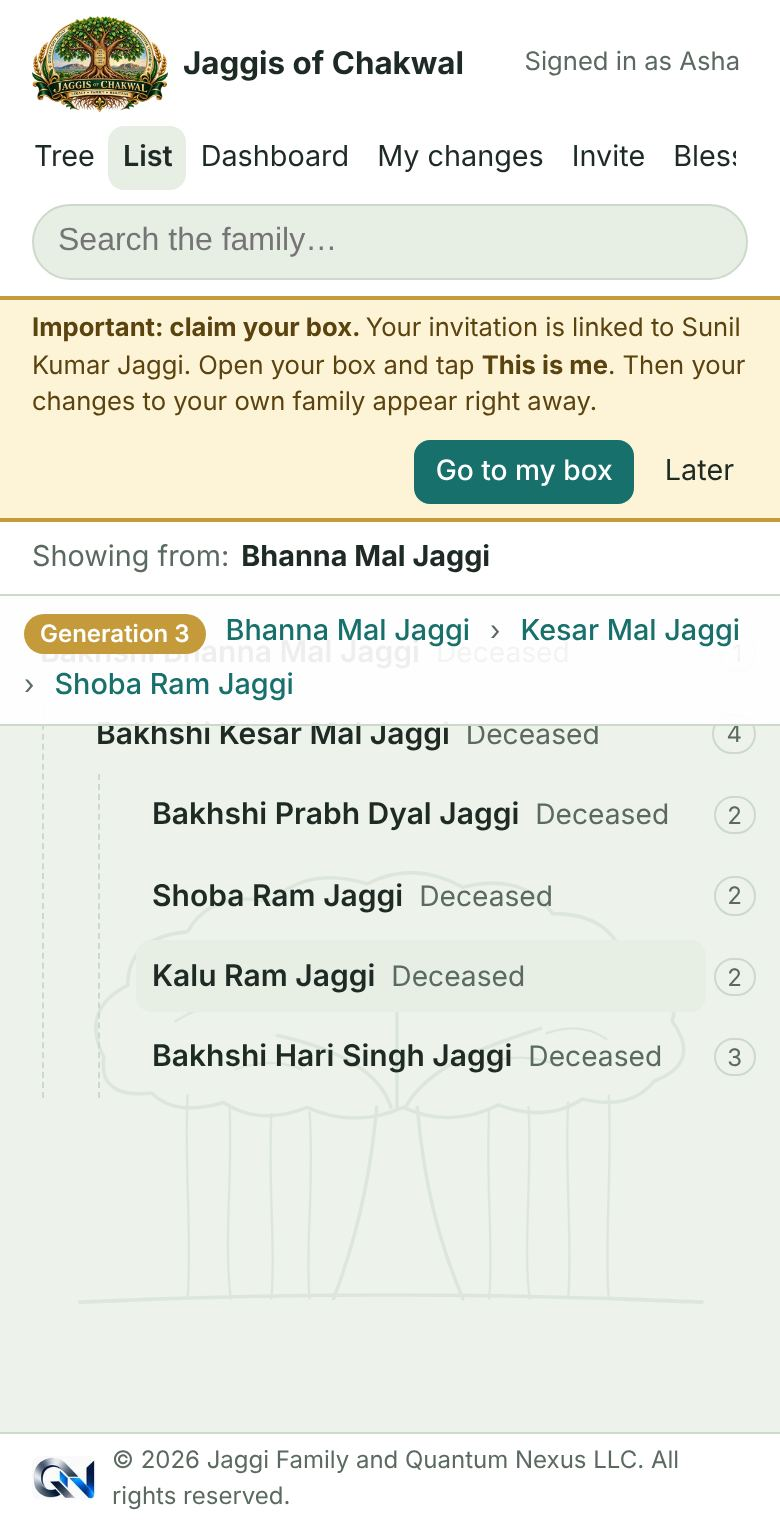
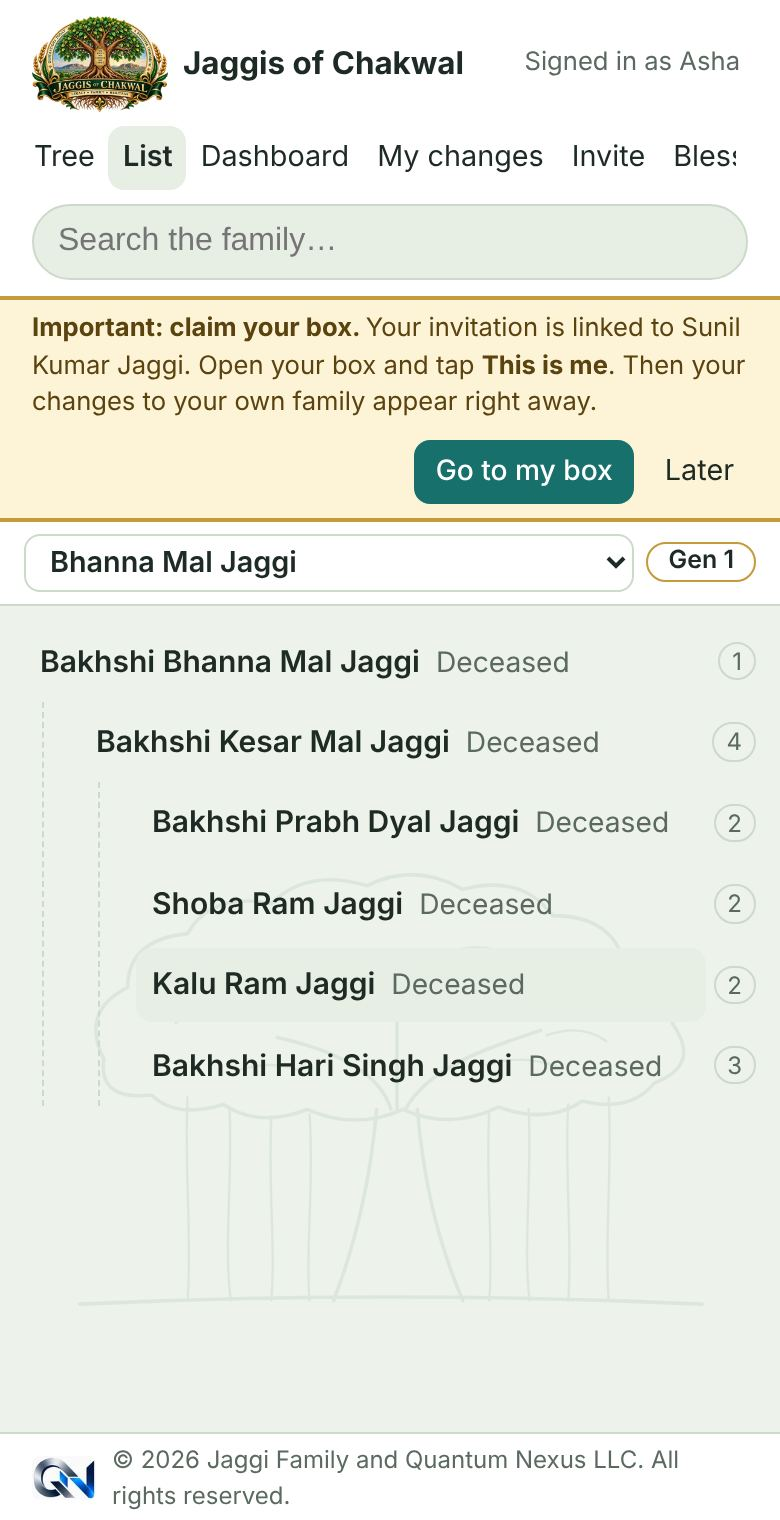
Help: labelled pictures of the Start tree from line
Section 4 gets a numbered desktop picture of the line above the tree (people
above, drop-down, generation badge, you are here) and a phone picture.
Help pictures retaken so they show the new one-line bar.

Claude-Session: https://claude.ai/code/session_01JLtp1VfvXZvpZx7tjzR84u

diff --git a/site/help.html b/site/help.html
@@ -30,6 +30,8 @@
     .help .shot figcaption { font-size: 0.88rem; color: var(--muted); margin-top: 6px; line-height: 1.4; }
     .help .shots { display: grid; grid-template-columns: repeat(auto-fit, minmax(220px, 1fr)); gap: 0 16px; }
     .help .shots .shot { margin: 16px auto; }
+    .help .shot.wide { max-width: 100%; }
+    .help .shot.wide figcaption { text-align: left; }
     .help-table { width: 100%; border-collapse: collapse; margin: 12px 0; font-size: 0.97rem; }
     .help-table th, .help-table td { text-align: left; padding: 6px 8px; border-bottom: 1px solid var(--line); vertical-align: top; }
     .help-table td:last-child, .help-table th:last-child { text-align: right; white-space: nowrap; }
@@ -142,7 +144,7 @@
       <li><strong>Edit straight from the tree:</strong> when you are signed in, each box has a small pencil in its top corner. Tap it to open that person's edit form. It works the same as <span class="ui">Suggest an edit</span> on their card, and changes still wait for the admin's approval.</li>
       <li><strong>Husbands and wives:</strong> someone who married into the family has their own smaller box with a dashed edge, just below their partner and joined to them by two gold rings. Their children hang below the couple. Children who have no children showing yet are listed in a column, so the tree stays narrow; tap the number under a box to open that family. Tap the box to see or add their details and photo.</li>
       <li><strong>Find someone:</strong> type a name in <span class="ui">Search the family</span>. Different spellings, like Parkash and Prakash, still find them.</li>
-      <li><strong>Start the tree from one person:</strong> once signed in, use the <span class="ui">Start tree from</span> drop-down in the line above the tree. It lists everyone who has children, grouped by generation. Pick someone (for example Tapashi Ram Jaggi or Harbans Lal Jaggi) and the tree shows only them and their descendants, with their spouses. The names before the drop-down are their ancestors: tap one to step back up. The badge after it, for example <span class="ui">Gen 4 · 3 generations above</span>, shows their generation and how many generations are above them. To see everyone again, pick Bhanna Mal Jaggi. Your choice is not remembered: next time the tree opens on your own line again.</li>
+      <li><strong>Start the tree from one person:</strong> once signed in, use the <span class="ui">Start tree from</span> drop-down in the line above the tree. It lists everyone who has children, grouped by generation. Pick someone (for example Tapashi Ram Jaggi or Harbans Lal Jaggi) and the tree shows only them and their descendants, with their spouses. The names before the drop-down are their ancestors: tap one to step back up. The badge after it, for example <span class="ui">Gen 4 · 3 generations above</span>, shows their generation and how many generations are above them. To see everyone again, pick Bhanna Mal Jaggi. Your choice is not remembered: next time the tree opens on your own line again. See <a href="#start-from">the pictures below</a>.</li>
       <li>You can also open anyone's details and tap <span class="ui">Show tree from here</span>. Visitors who are not signed in see <span class="ui">Showing from</span> with the ancestors, and <span class="ui">Whole tree</span> to go back.</li>
       <li><strong>List view:</strong> tap <span class="ui">List</span> at the top for a simple indented list, which is easier to read on a small phone.</li>
       <li><strong>The same menu on every page:</strong> the bar at the top is the same on the tree, on this Help page and on the Ancestors pages. When you are signed in it shows all your items (and <span class="ui">Review</span> and <span class="ui">Members</span> for the admin), your photo, blessings and badges, and <span class="ui">Sign out</span>. You can also search for someone from any of these pages; picking a name takes you to them in the tree.</li>
@@ -154,6 +156,9 @@
       <figure class="shot"><img src="img/help/tree.jpg" width="390" height="760" loading="lazy" alt="The tree. Drag to move around; tap the round button under a card to open a family."><figcaption>The tree. Drag to move around; tap the round button under a card to open a family.</figcaption></figure>
       <figure class="shot"><img src="img/help/person-card.jpg" width="390" height="760" loading="lazy" alt="Tap a card to see that person's details."><figcaption>Tap a card to see that person's details.</figcaption></figure>
     </div>
+    <h3 id="start-from">Starting the tree from one person</h3>
+    <figure class="shot wide"><a href="img/help/start-from.jpg" target="_blank" rel="noopener" title="Open the picture full size"><img src="img/help/start-from.jpg" width="1080" height="76" loading="lazy" alt="The line above the tree when it starts from Tapashi Ram Jaggi, with four numbered parts."></a><figcaption>The line above the tree, here starting from Tapashi Ram Jaggi (members only). <strong>1</strong> The people above him: tap a name to start the tree from them instead. <strong>2</strong> <span class="ui">Start tree from</span>: pick anyone who has children, listed by generation. <strong>3</strong> His generation and how many generations are above him. <strong>4</strong> You are here: the generation and line of the box in the middle of your screen, which changes as you scroll. Tap the picture to see it larger.</figcaption></figure>
+    <figure class="shot"><img src="img/help/start-from-phone.jpg" width="390" height="760" loading="lazy" alt="On a phone the same four parts sit in three short rows above the tree."><figcaption>On a phone the same four parts sit in three short rows. Here the tree starts from Harbans Lal Jaggi, 4 generations below Bhanna Mal Jaggi.</figcaption></figure>
     <figure class="shot"><img src="img/help/list.jpg" width="390" height="760" loading="lazy" alt="The List view: easier to read on a small phone."><figcaption>The List view: easier to read on a small phone.</figcaption></figure>
     <p>A card marked <strong>?</strong>, and a dashed line, means the parent isn't confirmed. If you know the answer, please tell us.</p>
 

diff --git a/docs/REQUIREMENTS.md b/docs/REQUIREMENTS.md
@@ -29,6 +29,7 @@ The Jaggis of Chakwal family tree is a phone-friendly website where anyone can l
 
 | Release | Target | Status |
 |---|---|---|
+| 20 Nov 2026 | | Help section 4: labelled pictures of the Start tree from line (desktop and phone); help pictures retaken with the new line. |
 | Version 1 | Thanksgiving, 26 Nov 2026 | **Live** since 13 Nov 2026, at familytree.sjaggi.com since 14 Nov. Several items first planned for version 2 shipped early: branch admins, custom domain, source and uncertainty fields on screen, edit history. |
 | Version 2 | Early 2027 | Planned: linked documents (certificates, letters), GEDCOM import, "How are we related?" between any two people, automatic Library preview pictures. |
 | Future | Later | Open sign-up so any family can start its own tree, self-hosting, App Store and Play Store apps, more languages, prize draws for Blessings. |
